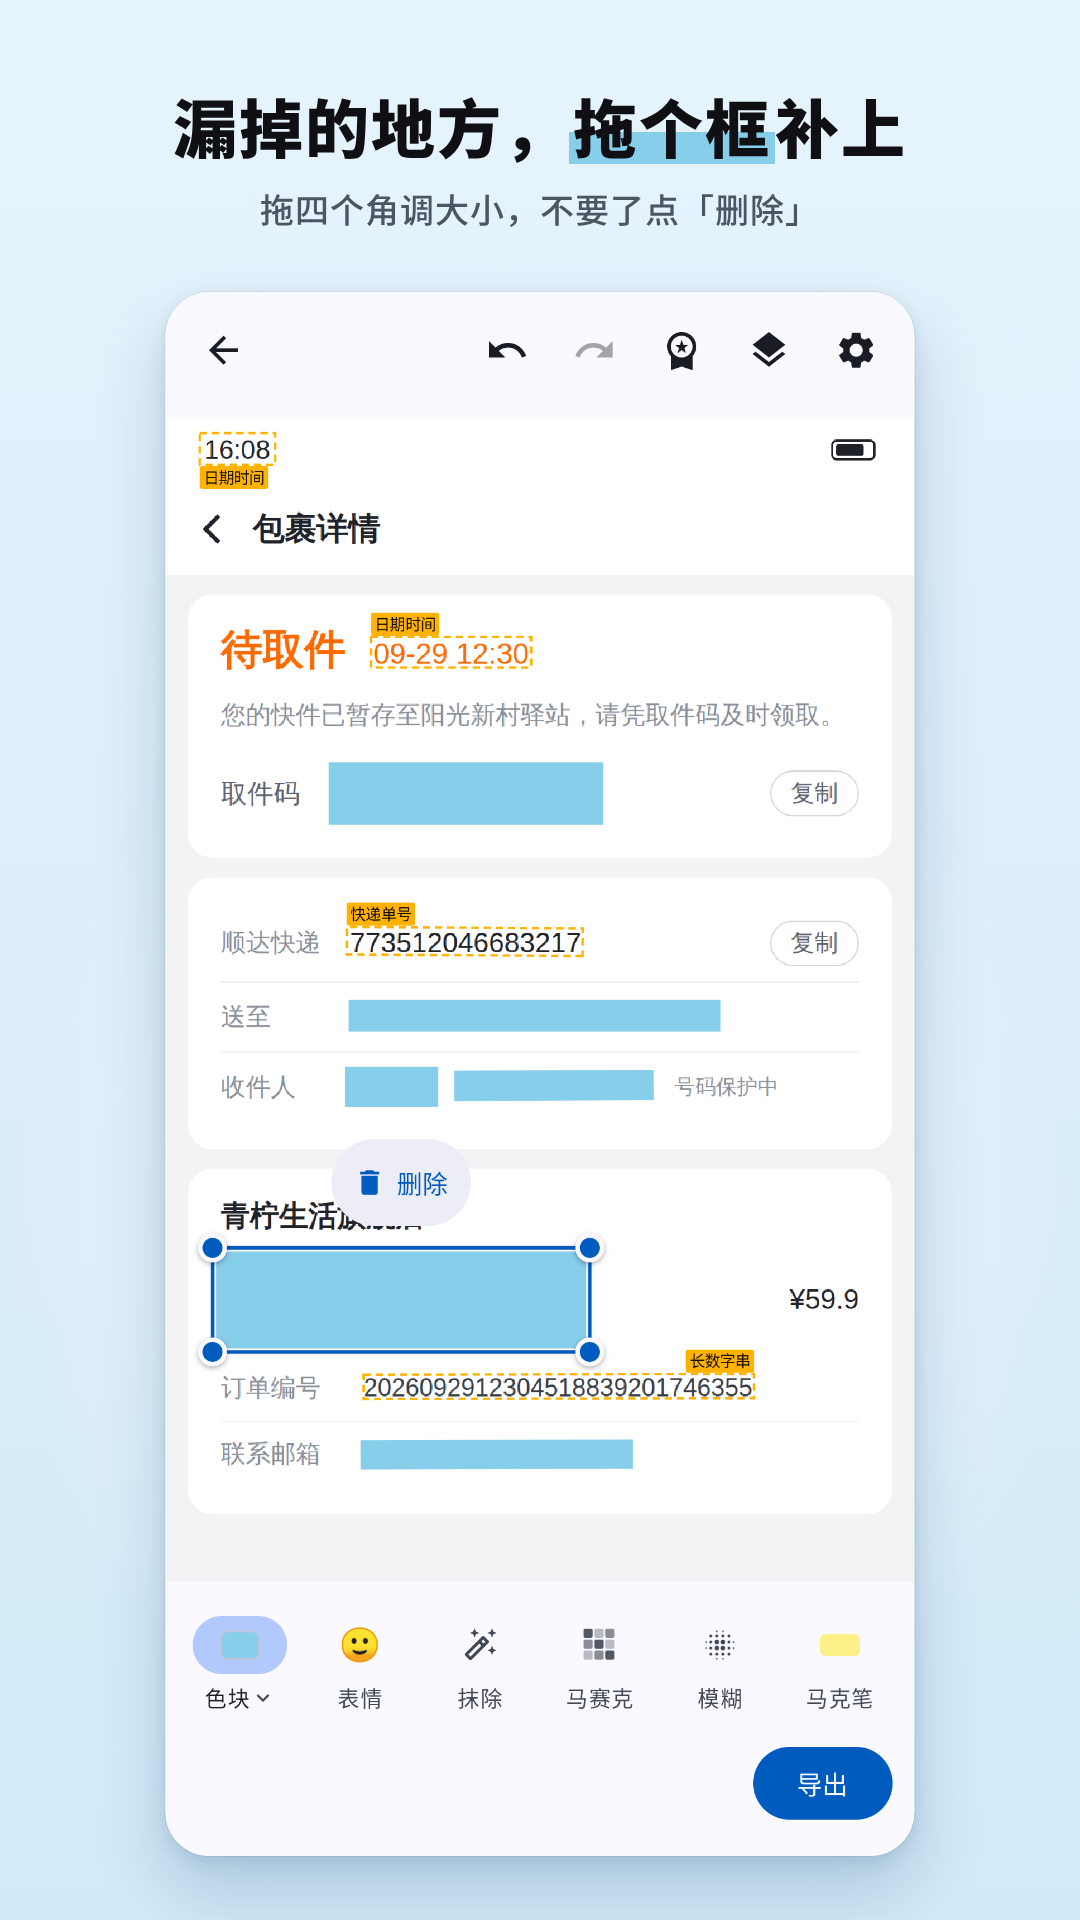
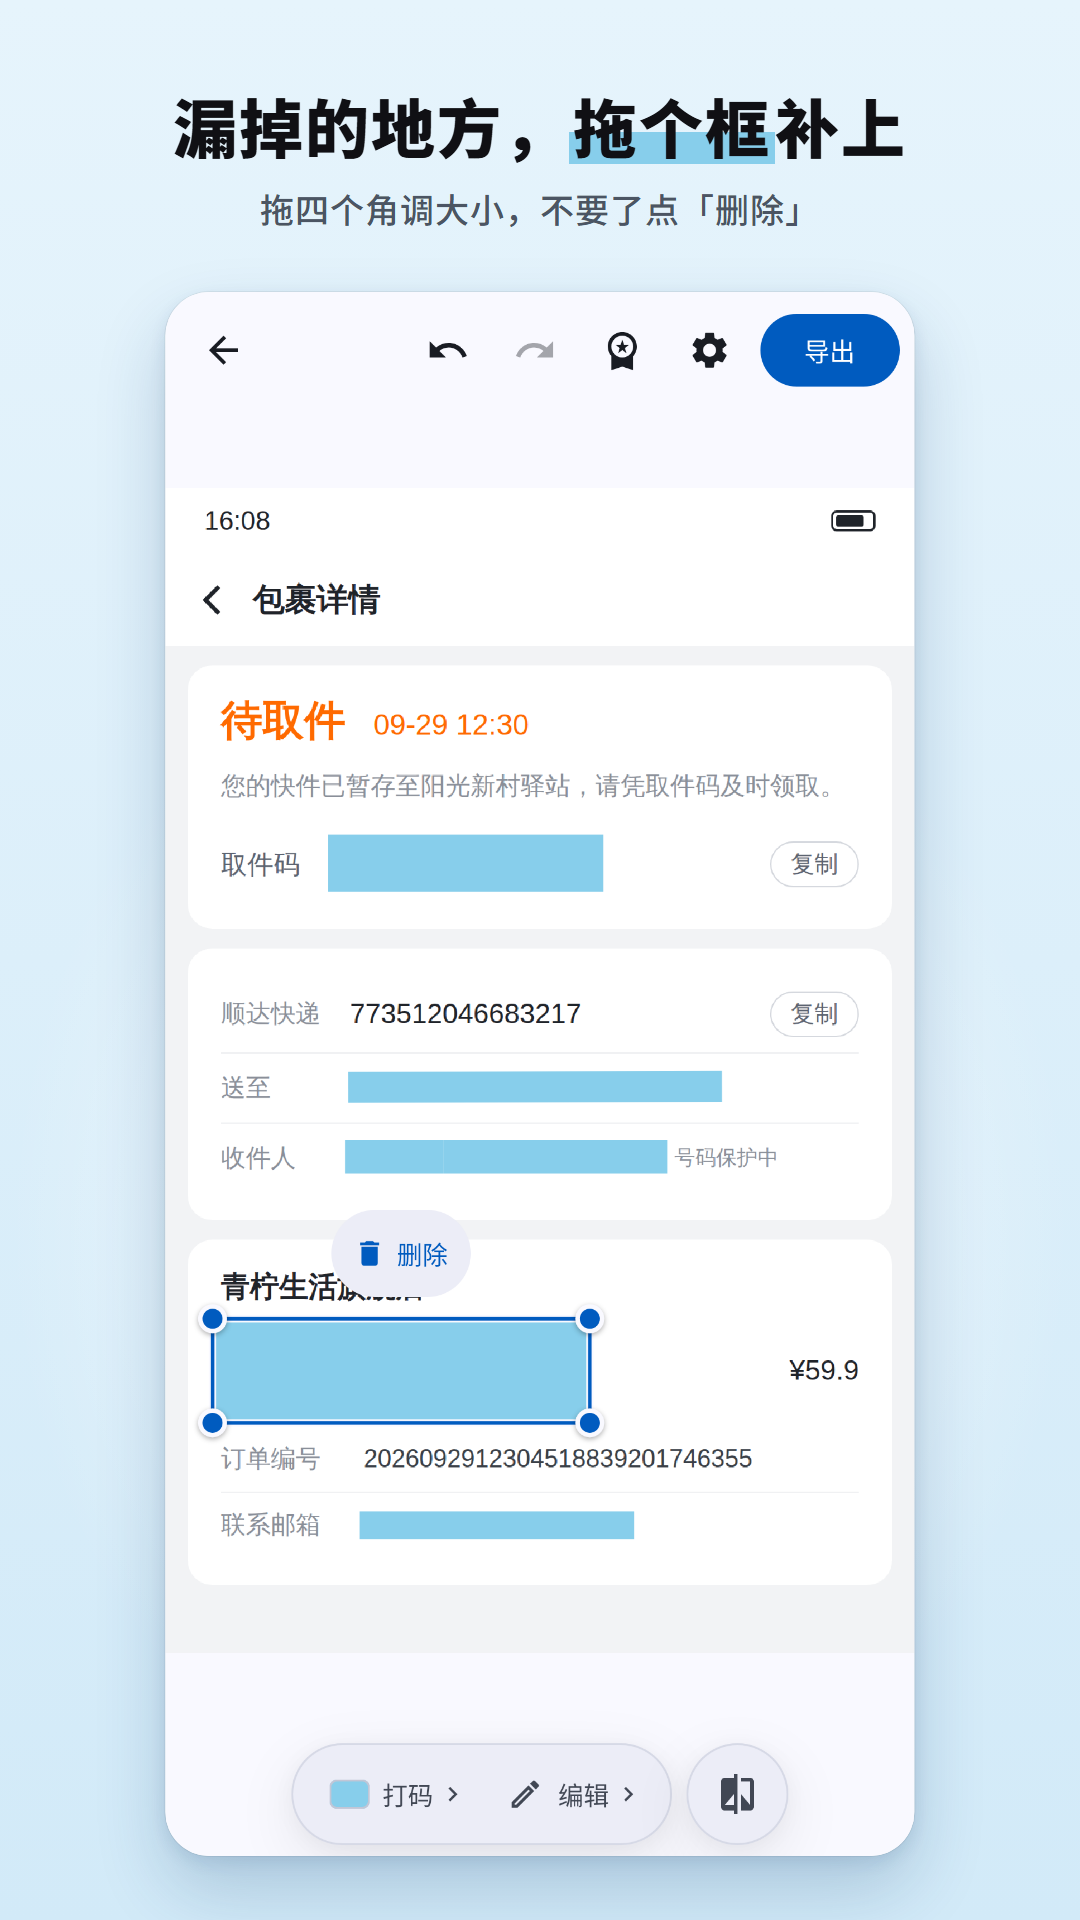
docs: re-render README hero and Play images without "outline only"
- Hero and feature graphic: no amber dashed boxes or kind tags; date,
  tracking and order numbers stay plain text
- Play screenshots re-shot on the current editor. Shot 5 is now "tap a
  line to mask it" (the chat's photo link, off by default) instead of the
  removed export reminder; screenshot.html draws a tap dot from an
  optional "tap" in screenshots.json
- Rules shot scrolls to 取件码 so Mask and Off rows share the screen
- Batch shot: a test-only ContentResolver shadow serves loadThumbnail via
  BitmapFactory, since ImageDecoder can't decode under Robolectric and
  the filmstrip came out empty
- Captions and alt texts follow the new images; shot 3 no longer claims
  six styles with 表情 and 抹除
- The dialog-drawing code in PlayScreenshots went with the reminder

diff --git a/app/src/test/java/moe/flinty/yomark/store/PlayScreenshots.kt b/app/src/test/java/moe/flinty/yomark/store/PlayScreenshots.kt
@@ -1,20 +1,21 @@
 package moe.flinty.yomark.store
 
+import android.content.ContentResolver
 import android.graphics.Bitmap
+import android.graphics.BitmapFactory
 import android.graphics.Canvas
-import android.graphics.Color
+import android.graphics.PointF
 import android.graphics.RectF
 import android.net.Uri
+import android.os.CancellationSignal
 import android.os.Looper
-import android.view.View
-import android.view.WindowManager
+import android.util.Size
 import androidx.activity.ComponentActivity
 import androidx.compose.material3.Surface
 import androidx.compose.runtime.Composable
 import androidx.compose.ui.test.hasScrollToKeyAction
 import androidx.compose.ui.test.junit4.createAndroidComposeRule
 import androidx.compose.ui.test.performScrollToKey
-import androidx.core.graphics.withTranslation
 import androidx.core.net.toUri
 import androidx.lifecycle.SavedStateHandle
 import moe.flinty.yomark.core.geometry.Quad
@@ -50,9 +51,10 @@ import org.robolectric.RobolectricTestRunner
 import org.robolectric.Shadows.shadowOf
 import org.robolectric.annotation.Config
 import org.robolectric.annotation.GraphicsMode
-import org.robolectric.shadows.ShadowDialog
+import org.robolectric.annotation.Implementation
+import org.robolectric.annotation.Implements
+import org.robolectric.shadows.ShadowContentResolver
 import java.io.File
-import kotlin.math.roundToInt
 
 /**
  * Google Play 商品详情的手机截图（docs/play/screenshots/）用的编辑器截图。不是测试，平时跳过；要重拍时：
@@ -99,6 +101,22 @@ class PlayScreenshots {
         override suspend fun recognize(image: SourceImage): List<TextLine> {
             gate.await()
             return delegate.recognize(image)
+        }
+    }
+
+    /**
+     * Robolectric 上 ImageDecoder 解不了图（Only supported on Android），胶片条的缩略图出不来。
+     * BatchThumbnails 先走系统缩略图，这里替它用 BitmapFactory 降采样解：样图都是 file:// 的。
+     */
+    @Implements(ContentResolver::class)
+    class ThumbnailContentResolver : ShadowContentResolver() {
+        @Implementation
+        fun loadThumbnail(uri: Uri, size: Size, signal: CancellationSignal?): Bitmap {
+            val path = uri.path!!
+            val bounds = BitmapFactory.Options().apply { inJustDecodeBounds = true }
+            BitmapFactory.decodeFile(path, bounds)
+            val sample = maxOf(1, minOf(bounds.outWidth / size.width, bounds.outHeight / size.height))
+            return BitmapFactory.decodeFile(path, BitmapFactory.Options().apply { inSampleSize = sample })
         }
     }
 
@@ -174,48 +192,16 @@ class PlayScreenshots {
         File(outDir, "$name.png").outputStream().use { bmp.compress(Bitmap.CompressFormat.PNG, 100, it) }
     }
 
-    /**
-     * captureToImage 在 Robolectric 上等不到重绘，直接把整个窗口画进一张位图。
-     *
-     * AlertDialog 是另一个窗口，activity 的 decorView 里没有它：照系统的样子先压一层暗幕，再把它画在正中。
-     * 它的大小照 ViewRootImpl 量 WRAP_CONTENT 窗口的办法重新量：先按 config_prefDialogWidth 试，
-     * 放不下才放宽到整屏；对话框主题的最小宽度由 DecorView 自己撑开。Robolectric 直接按整屏宽排，与真机不符。
-     */
+    /** captureToImage 在 Robolectric 上等不到重绘，直接把整个窗口画进一张位图。 */
     private fun render(): Bitmap {
         shadowOf(Looper.getMainLooper()).idle()
         val decor = compose.activity.window.decorView
         val bmp = Bitmap.createBitmap(decor.width, decor.height, Bitmap.Config.ARGB_8888)
-        compose.runOnUiThread {
-            val canvas = Canvas(bmp)
-            decor.draw(canvas)
-            ShadowDialog.getShownDialogs().filter { it.isShowing }.forEach { dialog ->
-                val window = dialog.window ?: return@forEach
-                val attrs = window.attributes
-                if (attrs.flags and WindowManager.LayoutParams.FLAG_DIM_BEHIND != 0) {
-                    canvas.drawColor(Color.argb((attrs.dimAmount * 255).roundToInt(), 0, 0, 0))
-                }
-                val view = window.decorView
-                measureLikeViewRoot(view, attrs, bmp.width, bmp.height)
-                view.layout(0, 0, view.measuredWidth, view.measuredHeight)
-                canvas.withTranslation((bmp.width - view.width) / 2f, (bmp.height - view.height) / 2f) { view.draw(this) }
-            }
-        }
+        compose.runOnUiThread { decor.draw(Canvas(bmp)) }
         return bmp
     }
 
-    private fun measureLikeViewRoot(view: View, attrs: WindowManager.LayoutParams, width: Int, height: Int) {
-        val heightSpec = View.MeasureSpec.makeMeasureSpec(height, View.MeasureSpec.AT_MOST)
-        val res = context.resources
-        val prefId = res.getIdentifier("config_prefDialogWidth", "dimen", "android")
-        val base = if (prefId != 0) res.getDimensionPixelSize(prefId) else 0
-        if (attrs.width == WindowManager.LayoutParams.WRAP_CONTENT && base in 1 until width) {
-            view.measure(View.MeasureSpec.makeMeasureSpec(base, View.MeasureSpec.AT_MOST), heightSpec)
-            if (view.measuredWidthAndState and View.MEASURED_STATE_TOO_SMALL == 0) return
-        }
-        view.measure(View.MeasureSpec.makeMeasureSpec(width, View.MeasureSpec.AT_MOST), heightSpec)
-    }
-
-    /** 快递详情页识别完：有把握的打上码，拿不准的圈出来。 */
+    /** 快递详情页识别完：手机号、地址这些打上码，出厂关着的几类（快递单号、日期时间……）原样留着。 */
     @Test fun auto() {
         open(sample("/readme/order-page.png"))
         shoot("auto")
@@ -255,12 +241,12 @@ class PlayScreenshots {
         shoot("manual")
     }
 
-    /** 还有圈出没打码的就点导出：先列出来再问一次。 */
-    @Test fun reminder() {
+    /** 网址出厂不打码：点一下那行字，整行打上码。点的是 chat-page.png 里网盘链接那一行的正中，量自样图的像素。 */
+    @Test fun tap() {
         val vm = open(sample("/play/chat-page.png"))
-        compose.runOnUiThread { vm.requestExport() }
+        compose.runOnUiThread { vm.onTap(PointF(440f, 1238f)) }
         advance(1_000)
-        shoot("reminder")
+        shoot("tap")
     }
 
     /** 用途水印：整张图铺一行字。调节面板收起后拍。 */
@@ -277,6 +263,7 @@ class PlayScreenshots {
     }
 
     /** 从相册一次分享三张进来：底栏工具那一行上面是胶片条，停在第一张上。 */
+    @Config(shadows = [ThumbnailContentResolver::class])
     @Test fun batch() {
         open(
             sample("/play/chat-page.png"),
@@ -287,13 +274,13 @@ class PlayScreenshots {
     }
 
     /**
-     * 设置 › 文字：每一类一行，小字是它眼下怎么处理，点进去能改成打码、仅圈出或关闭。出厂配置，
-     * 列表滚到各类开头，默认打码的几类（人名、电话、地址……）和默认只圈出的几类（快递单号、日期时间、网址……）同在一屏。
+     * 设置 › 文字：每一类一行，小字是它眼下打码还是关闭，点进去能改。出厂配置，列表滚到「取件码」，
+     * 默认打码的几类（取件码、证件号码、银行卡号……）和默认关闭的几类（快递单号、日期时间、网址……）同在一屏。
      */
     @Test fun rules() {
         show { TextSettingsScreen(RecognitionConfig(), onChange = {}, onOpenEngine = {}, onOpenRule = {}, onNavigateUp = {}) }
         compose.waitForIdle()
-        compose.onNode(hasScrollToKeyAction()).performScrollToKey("name")
+        compose.onNode(hasScrollToKeyAction()).performScrollToKey("pickup")
         compose.waitForIdle()
         shoot("rules")
     }

diff --git a/docs/readme/src/hero.html b/docs/readme/src/hero.html
@@ -1,7 +1,7 @@
 <!doctype html>
 <!-- README 头图。node docs/readme/src/render.cjs hero 渲染成 docs/readme/hero.png
-     右侧的两张卡片是同一份样图（order-page.html 的内容），左边原样，右边把默认打码的字段盖上色块、
-     默认只圈出的字段画上虚线框。颜色与形状照编辑器里的来：色块 #87CEEB，虚线框和类型标签 #FFB300。 -->
+     右侧的两张卡片是同一份样图（order-page.html 的内容），左边原样，右边把默认打码的字段盖上色块，
+     默认关闭的（日期、快递单号、订单编号）原样留着。色块照编辑器里的来：#87CEEB。 -->
 <html lang="zh-CN">
 <head>
 <meta charset="utf-8">
@@ -14,7 +14,6 @@
     --faint: #9aa0aa;
     --line: #e6e8ec;
     --sky: #87ceeb;
-    --amber: #ffb300;
   }
   * { box-sizing: border-box; margin: 0; padding: 0; }
   html, body { width: 1280px; height: 640px; overflow: hidden; }
@@ -90,15 +89,8 @@
   .btn { margin-left: auto; font-size: 12px; color: #5c6370; border: 1px solid #d5d8de; border-radius: 999px; padding: 2px 10px; }
   .hint { font-size: 12px; color: #8a8f99; margin-left: auto; }
 
-  /* 识别后：色块盖住、虚线框圈出。与应用里一致：实色块不透明，框带类型标签。 */
+  /* 识别后：色块盖住。与应用里一致：实色块不透明。 */
   .after .mask { color: transparent; background: var(--sky); box-shadow: 0 0 0 3px var(--sky); }
-  .after .outline { position: relative; outline: 2px dashed var(--amber); outline-offset: 3px; }
-  .after .outline::before {
-    content: attr(data-label);
-    position: absolute; left: -5px; top: -19px;
-    padding: 1px 4px; background: var(--amber); color: #000;
-    font-size: 10px; font-weight: 500; line-height: 12px; letter-spacing: 0.5px; white-space: nowrap;
-  }
 
   /* 两张卡片之间的箭头 */
   .arrow {
@@ -129,23 +121,23 @@
 
   <div class="card before">
     <span class="chip">原图</span>
-    <div class="state"><b>待取件</b><span class="outline" data-label="日期时间">09-29 12:30</span></div>
+    <div class="state"><b>待取件</b><span>09-29 12:30</span></div>
     <div class="row"><span class="k">取件码</span><span class="v big mask">3-2-1234</span><span class="btn">复制</span></div>
-    <div class="row"><span class="k">顺达快递</span><span class="v outline" data-label="快递单号">773512046683217</span><span class="btn">复制</span></div>
+    <div class="row"><span class="k">顺达快递</span><span class="v">773512046683217</span><span class="btn">复制</span></div>
     <div class="row"><span class="k">送至</span><span class="v mask">长江路88号阳光新村5幢302室</span></div>
     <div class="row"><span class="k">收件人</span><span class="v mask">王小明</span><span class="v mask">86-139****5678</span><span class="hint">号码保护中</span></div>
-    <div class="row"><span class="k">订单编号</span><span class="v outline" data-label="长数字串">2026092912304518839201746355</span></div>
+    <div class="row"><span class="k">订单编号</span><span class="v">2026092912304518839201746355</span></div>
     <div class="row"><span class="k">联系邮箱</span><span class="v mask">wangxm@example.com</span></div>
   </div>
 
   <div class="card after">
     <span class="chip">识别后</span>
-    <div class="state"><b>待取件</b><span class="outline" data-label="日期时间">09-29 12:30</span></div>
+    <div class="state"><b>待取件</b><span>09-29 12:30</span></div>
     <div class="row"><span class="k">取件码</span><span class="v big mask">3-2-1234</span><span class="btn">复制</span></div>
-    <div class="row"><span class="k">顺达快递</span><span class="v outline" data-label="快递单号">773512046683217</span><span class="btn">复制</span></div>
+    <div class="row"><span class="k">顺达快递</span><span class="v">773512046683217</span><span class="btn">复制</span></div>
     <div class="row"><span class="k">送至</span><span class="v mask">长江路88号阳光新村5幢302室</span></div>
     <div class="row"><span class="k">收件人</span><span class="v mask">王小明</span><span class="v mask">86-139****5678</span><span class="hint">号码保护中</span></div>
-    <div class="row"><span class="k">订单编号</span><span class="v outline" data-label="长数字串">2026092912304518839201746355</span></div>
+    <div class="row"><span class="k">订单编号</span><span class="v">2026092912304518839201746355</span></div>
     <div class="row"><span class="k">联系邮箱</span><span class="v mask">wangxm@example.com</span></div>
   </div>
 

diff --git a/docs/play/src/feature-graphic.html b/docs/play/src/feature-graphic.html
@@ -3,7 +3,7 @@
      照 Play 的要求：底色不用白、黑、深灰（会和商店页面融在一起），用打码块的天蓝；要紧的东西放在中间，
      四边留出会被裁掉的余量；不重复画应用图标，也不写「免费」「最好」之类的字。
      右边的卡片是 README 头图里那张样图（order-page.html）的内容：一道光自上而下扫过，光走过的地方落了码，
-     与编辑器里识别完的样子一致——色块 #87CEEB，虚线框和类型标签 #FFB300，光是天蓝到淡紫。 -->
+     与编辑器里识别完的样子一致——色块 #87CEEB，默认关闭的日期、快递单号原样留着，光是天蓝到淡紫。 -->
 <html lang="zh-CN">
 <head>
 <meta charset="utf-8">
@@ -14,7 +14,6 @@
     --text: #1f2329;
     --mute: #8a8f99;
     --sky: #87ceeb;
-    --amber: #ffb300;
   }
   * { box-sizing: border-box; margin: 0; padding: 0; }
   html, body { width: 1024px; height: 500px; overflow: hidden; }
@@ -59,13 +58,6 @@
   .v.big { font-size: 24px; font-weight: 500; letter-spacing: 1px; }
 
   .mask { color: transparent; background: var(--sky); box-shadow: 0 0 0 3px var(--sky); }
-  .outline { position: relative; outline: 2px dashed var(--amber); outline-offset: 3px; }
-  .outline::before {
-    content: attr(data-label);
-    position: absolute; left: -5px; top: -21px;
-    padding: 1px 5px; background: var(--amber); color: #000;
-    font-size: 11px; font-weight: 500; line-height: 13px; letter-spacing: 0.5px; white-space: nowrap;
-  }
 
   /* 光正走到的那一块码：从半透明慢慢盖实，底下的字还看得见一点 */
   .mask.half { background: rgba(135, 206, 235, 0.55); box-shadow: 0 0 0 3px rgba(135, 206, 235, 0.55); color: rgba(31, 35, 41, 0.35); }
@@ -97,9 +89,9 @@
   </div>
 
   <div class="card">
-    <div class="state"><b>待取件</b><span class="outline" data-label="日期时间">09-29 12:30</span></div>
+    <div class="state"><b>待取件</b><span>09-29 12:30</span></div>
     <div class="row"><span class="k">取件码</span><span class="v big mask">3-2-1234</span></div>
-    <div class="row"><span class="k">顺达快递</span><span class="v outline" data-label="快递单号">773512046683217</span></div>
+    <div class="row"><span class="k">顺达快递</span><span class="v">773512046683217</span></div>
     <div class="row"><span class="k">送至</span><span class="v mask">长江路88号阳光新村5幢302室</span></div>
     <div class="row"><span class="k">收件人</span><span class="v mask">王小明</span><span class="v mask">86-139****5678</span></div>
     <div class="row"><span class="k">联系邮箱</span><span class="v mask half">wangxm@example.com</span></div>

diff --git a/docs/play/src/screenshot.html b/docs/play/src/screenshot.html
@@ -41,17 +41,29 @@
     box-shadow: 0 0 0 1px rgba(16, 16, 20, 0.06), 0 6px 16px rgba(16, 60, 110, 0.10), 0 34px 70px rgba(16, 60, 110, 0.20);
   }
   .screen img { display: block; width: 100%; height: 100%; }
+  /* 点了哪儿（screenshots.json 的 tap，截图像素）：照系统「显示点按操作」画一个圆点 */
+  .tap {
+    position: absolute; width: 72px; height: 72px; margin: -36px 0 0 -36px; border-radius: 50%;
+    background: rgba(16, 16, 20, 0.22); box-shadow: 0 0 0 4px rgba(255, 255, 255, 0.85);
+  }
 </style>
 </head>
 <body>
   <div class="cap"><h1 id="title"></h1><p id="subtitle"></p></div>
-  <div class="screen"><img id="shot" alt=""></div>
+  <div class="screen"><img id="shot" alt=""><span id="tap" class="tap" hidden></span></div>
   <script>
     // 标题里用 {} 括起来的是要加底色的关键词
     function show(shot) {
       const esc = (s) => s.replace(/[&<>]/g, (c) => ({ '&': '&amp;', '<': '&lt;', '>': '&gt;' }[c]));
       document.getElementById('title').innerHTML = esc(shot.title).replace(/\{(.+?)\}/g, '<span class="hl">$1</span>');
       document.getElementById('subtitle').textContent = shot.subtitle;
+      const tap = document.getElementById('tap');
+      tap.hidden = !shot.tap;
+      if (shot.tap) {
+        const css = getComputedStyle(document.documentElement);
+        tap.style.left = (shot.tap[0] / css.getPropertyValue('--shot-w')) * 100 + '%';
+        tap.style.top = (shot.tap[1] / css.getPropertyValue('--shot-h')) * 100 + '%';
+      }
       const img = document.getElementById('shot');
       return new Promise((resolve, reject) => {
         img.onload = resolve;
